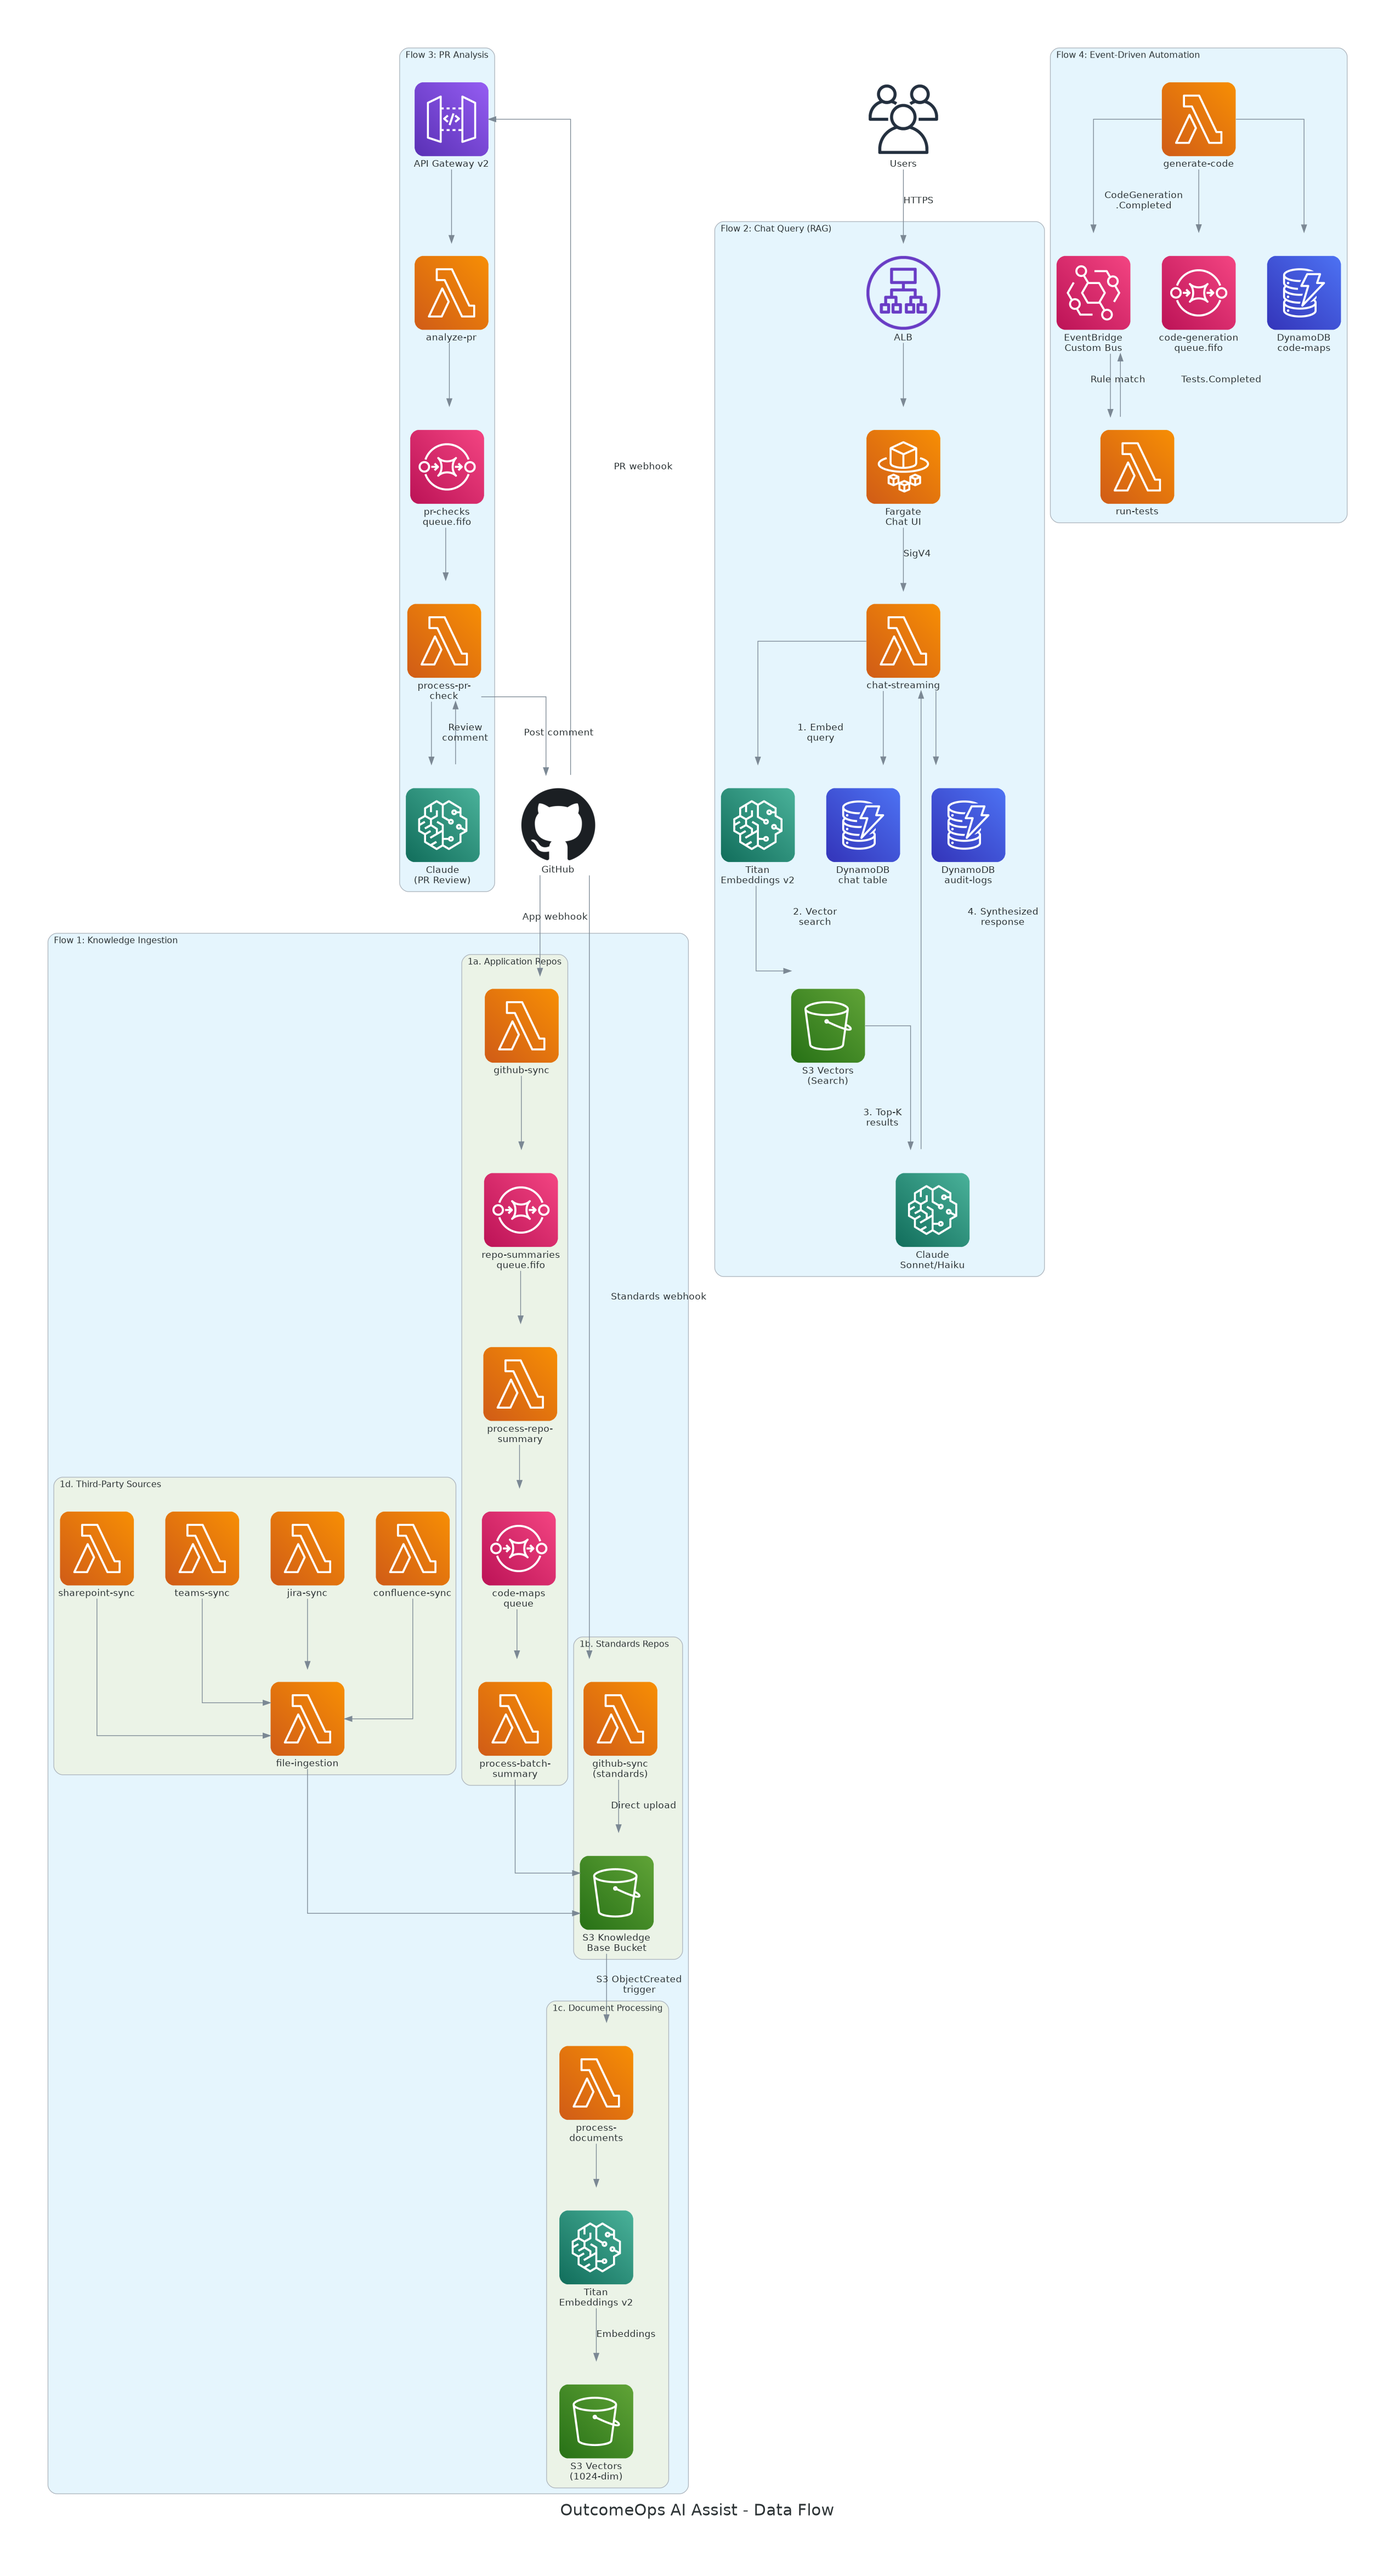
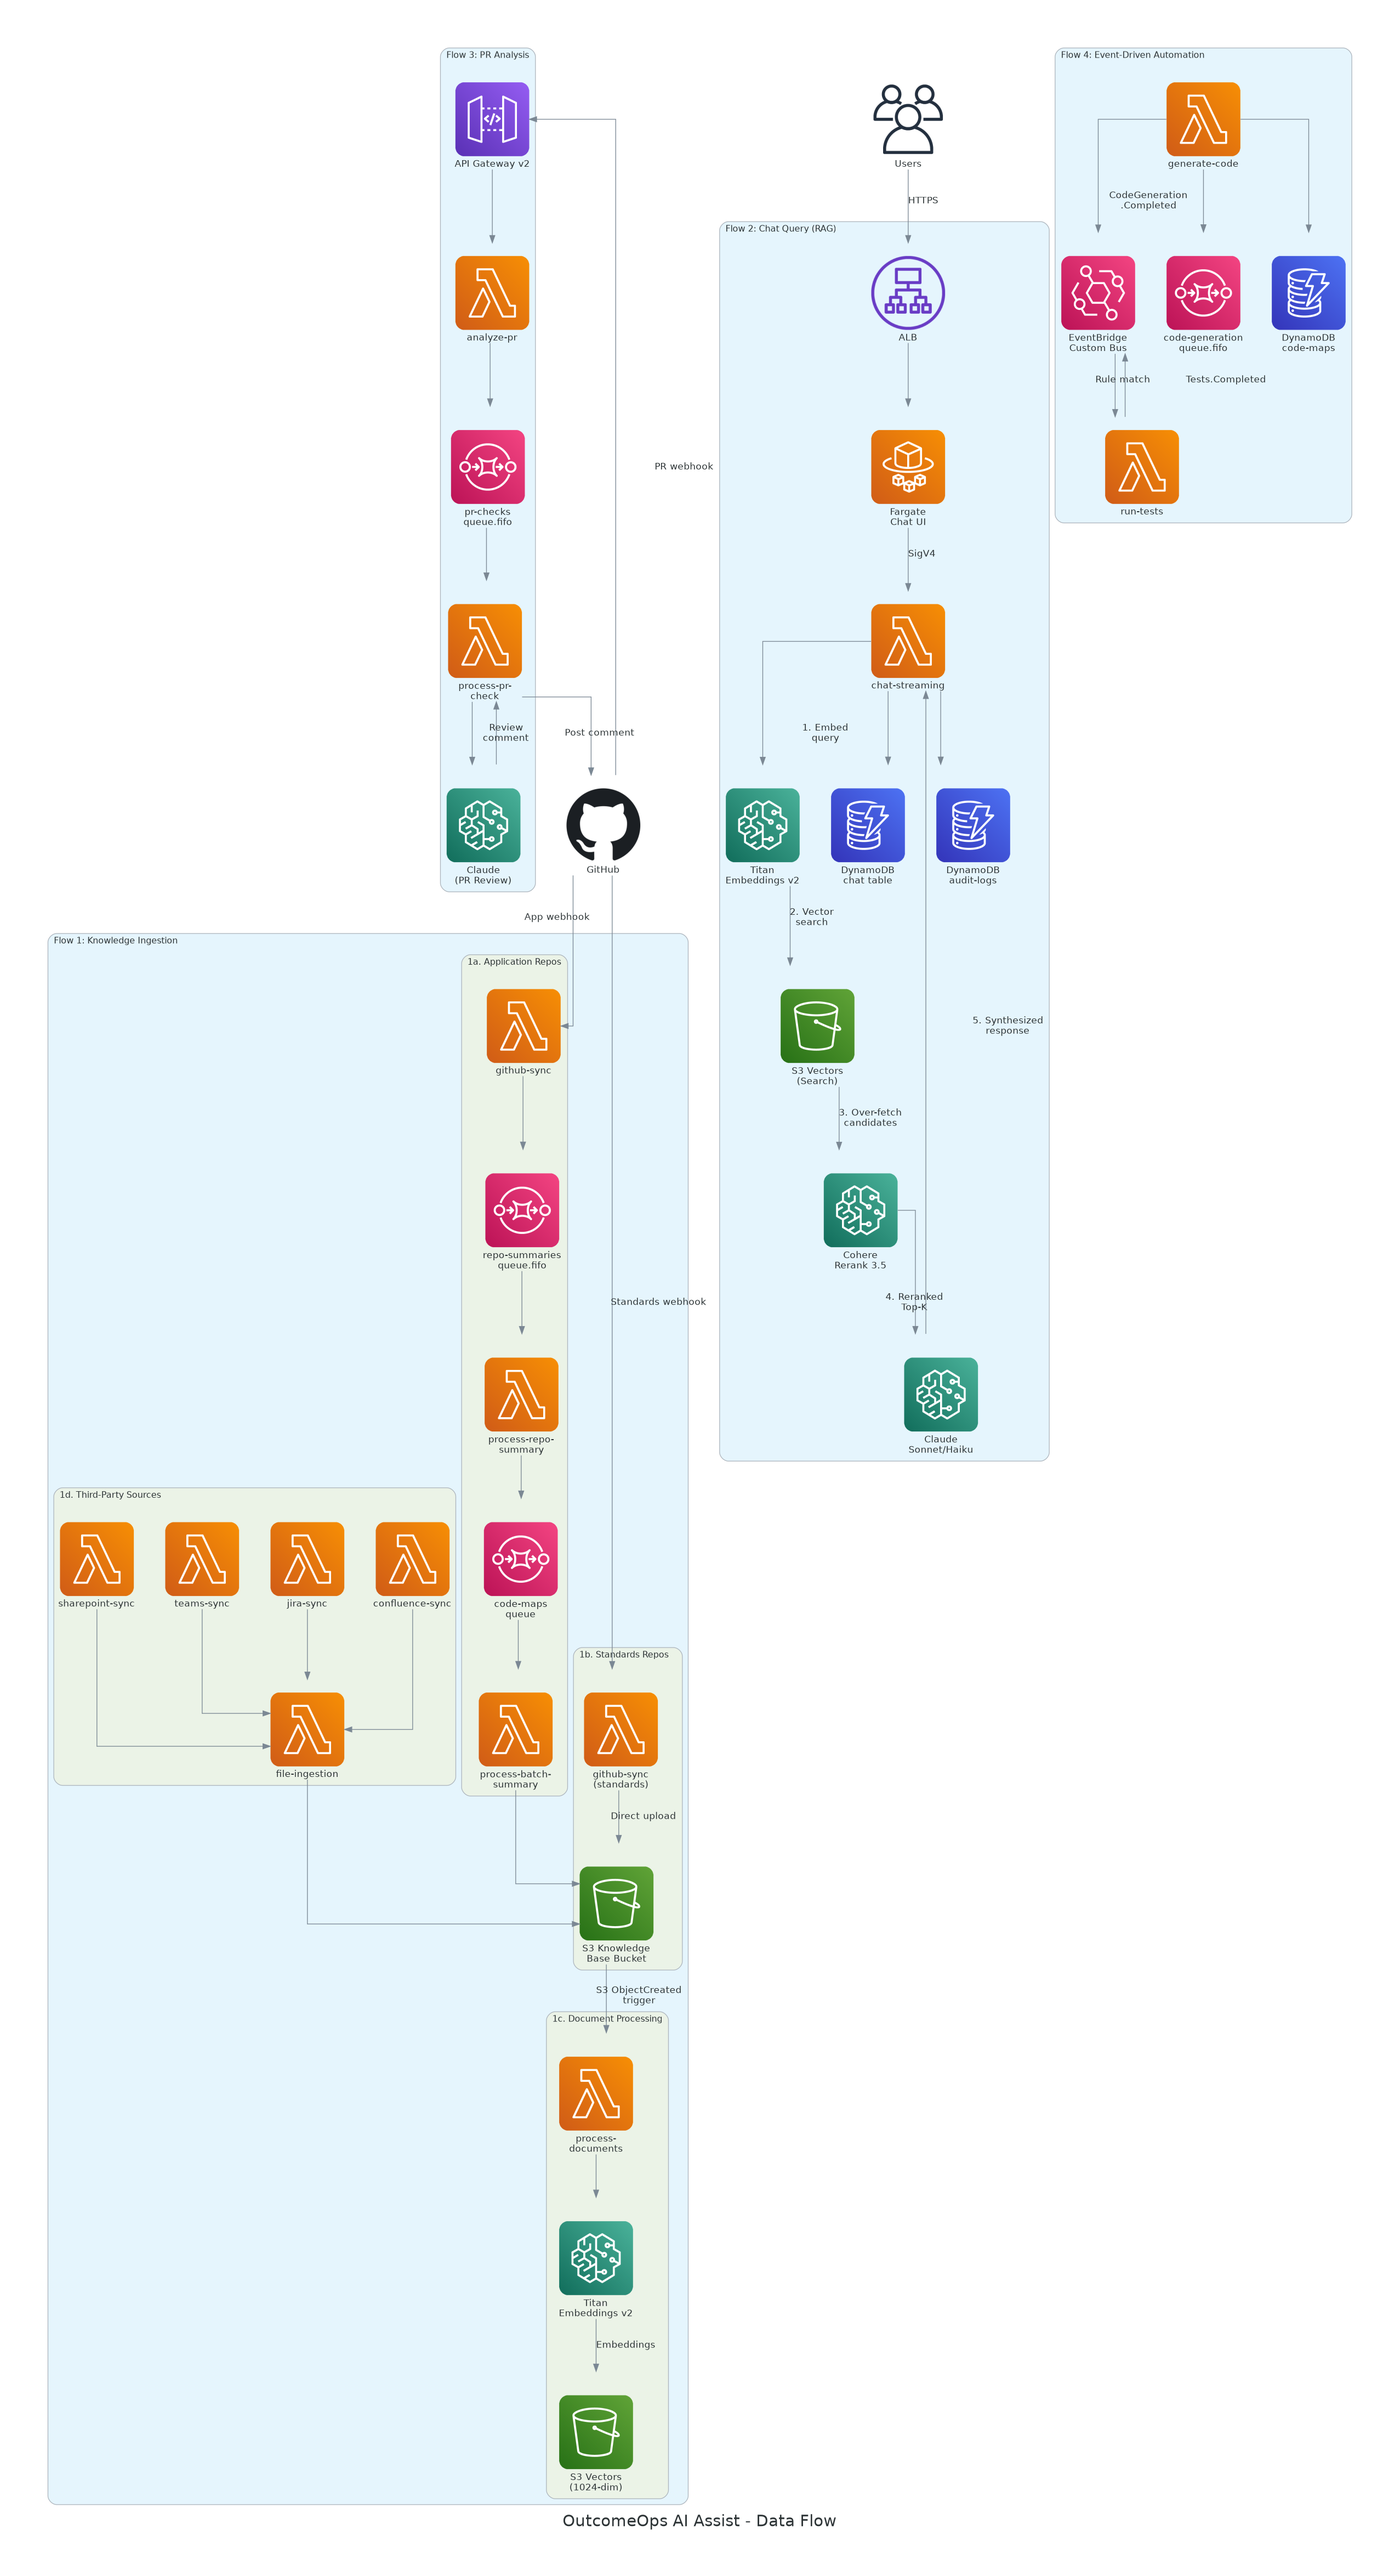
docs: add Cohere Rerank 3.5 to data flow and system architecture diagrams
Data flow diagram now shows the 5-step RAG pipeline with over-fetch
and reranking. System architecture diagram adds Cohere Rerank 3.5 to
the Bedrock cluster with connections from chat and query-kb Lambdas.

diff --git a/diagrams/data_flow.py b/diagrams/data_flow.py
@@ -95,6 +95,7 @@ with Diagram(
         chat_lambda = Lambda("chat-streaming")
         titan_query = Sagemaker("Titan\nEmbeddings v2")
         s3_vec_query = S3("S3 Vectors\n(Search)")
+        cohere_rerank = Sagemaker("Cohere\nRerank 3.5")
         claude_llm = Sagemaker("Claude\nSonnet/Haiku")
         ddb_chat = Dynamodb("DynamoDB\nchat table")
         ddb_audit = Dynamodb("DynamoDB\naudit-logs")
@@ -105,8 +106,9 @@ with Diagram(
     fargate >> Edge(label="SigV4") >> chat_lambda
     chat_lambda >> Edge(label="1. Embed\nquery") >> titan_query
     titan_query >> Edge(label="2. Vector\nsearch") >> s3_vec_query
-    s3_vec_query >> Edge(label="3. Top-K\nresults") >> claude_llm
-    claude_llm >> Edge(label="4. Synthesized\nresponse") >> chat_lambda
+    s3_vec_query >> Edge(label="3. Over-fetch\ncandidates") >> cohere_rerank
+    cohere_rerank >> Edge(label="4. Reranked\nTop-K") >> claude_llm
+    claude_llm >> Edge(label="5. Synthesized\nresponse") >> chat_lambda
     chat_lambda >> ddb_chat
     chat_lambda >> ddb_audit
 

diff --git a/diagrams/system_architecture.py b/diagrams/system_architecture.py
@@ -113,6 +113,7 @@ with Diagram(
         with Cluster("Amazon Bedrock"):
             bedrock_claude = Sagemaker("Claude Sonnet/Haiku")
             bedrock_titan = Sagemaker("Titan Embeddings v2")
+            bedrock_rerank = Sagemaker("Cohere Rerank 3.5")
 
         # --- Security ---
         with Cluster("Security & Config"):
@@ -137,12 +138,14 @@ with Diagram(
     # Chat flow
     chat >> bedrock_claude
     chat >> bedrock_titan
+    chat >> bedrock_rerank
     chat >> s3_vectors
     chat >> ddb_chat
     chat >> ddb_audit
 
     # Query flow
     query_kb >> bedrock_titan
+    query_kb >> bedrock_rerank
     query_kb >> s3_vectors
     ask_claude >> bedrock_claude
 
